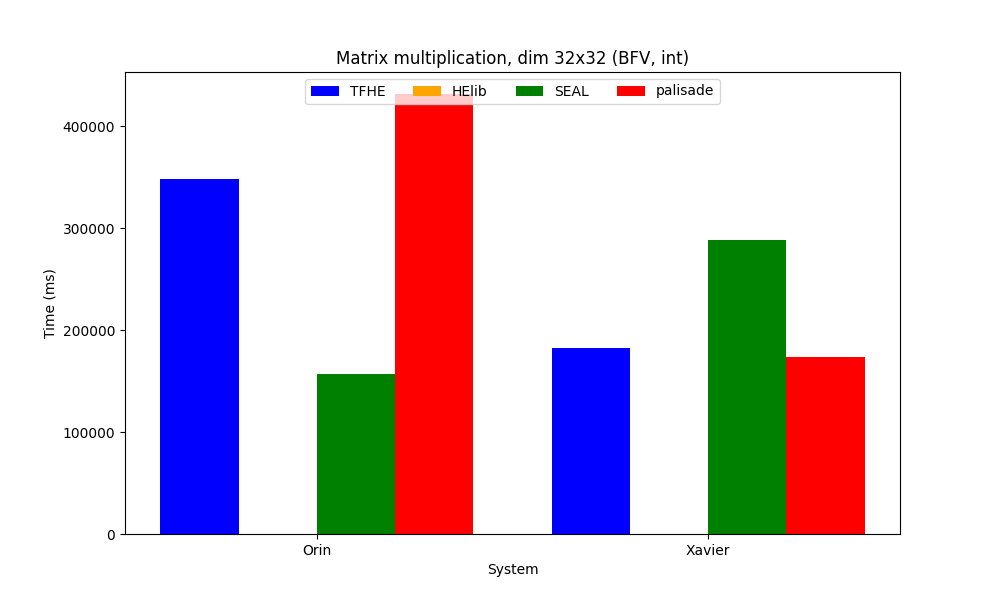
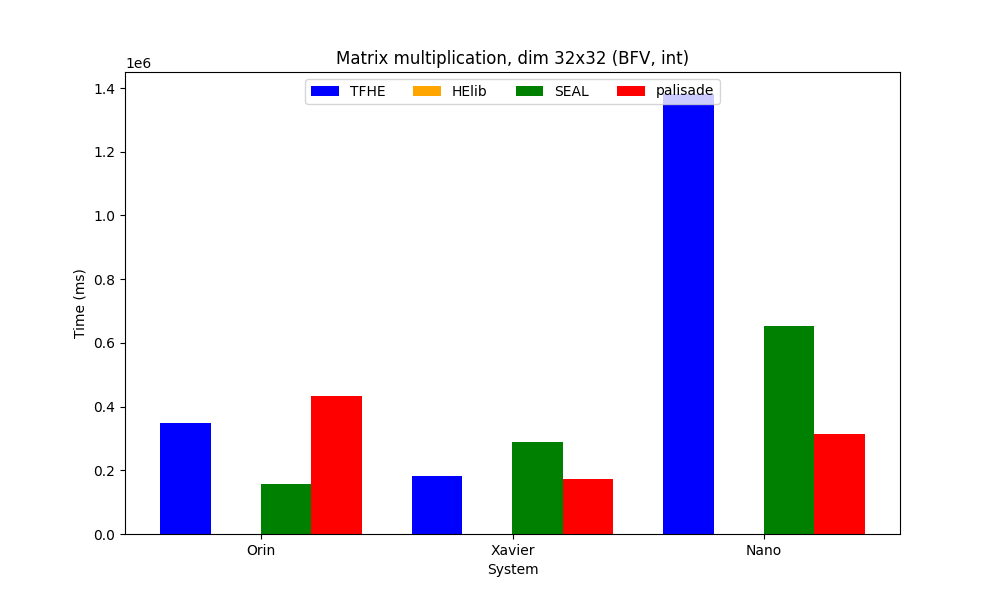
Update results for client

diff --git a/CHARACTERIZATION/CLIENT-LIKE_RESULTS/generate_bar_plots_float.py b/CHARACTERIZATION/CLIENT-LIKE_RESULTS/generate_bar_plots_float.py
@@ -68,7 +68,7 @@ for dimension in dims:
         plt.close()
 
     # Common X tick labels for both plots
-    x_ticks = ['Orin', 'Xavier']
+    x_ticks = ['Orin', 'Xavier', 'Nano']
     
     # Plotting the Orin-* and Xavier-* float values and saving to PDF
     create_bar_plot(float_data, 'Matrix multiplication, dim ' + str(dimension) + 'x' + str(dimension) + ' (CKKS, float)', str(dimension) + 'x' + str(dimension) + '_float_times_barplot.png', libraries_filtered_float.tolist())

diff --git a/CHARACTERIZATION/CLIENT-LIKE_RESULTS/generate_bar_plots_int.py b/CHARACTERIZATION/CLIENT-LIKE_RESULTS/generate_bar_plots_int.py
@@ -24,7 +24,7 @@ for dimension in dims:
     int_data = df[int_columns]
 
     # Common X tick labels for both plots
-    x_ticks = ['Orin', 'Xavier']
+    x_ticks = ['Orin', 'Xavier', 'Nano']
     x = np.arange(len(x_ticks))  # the label locations
 
     # Function to create bar plots
